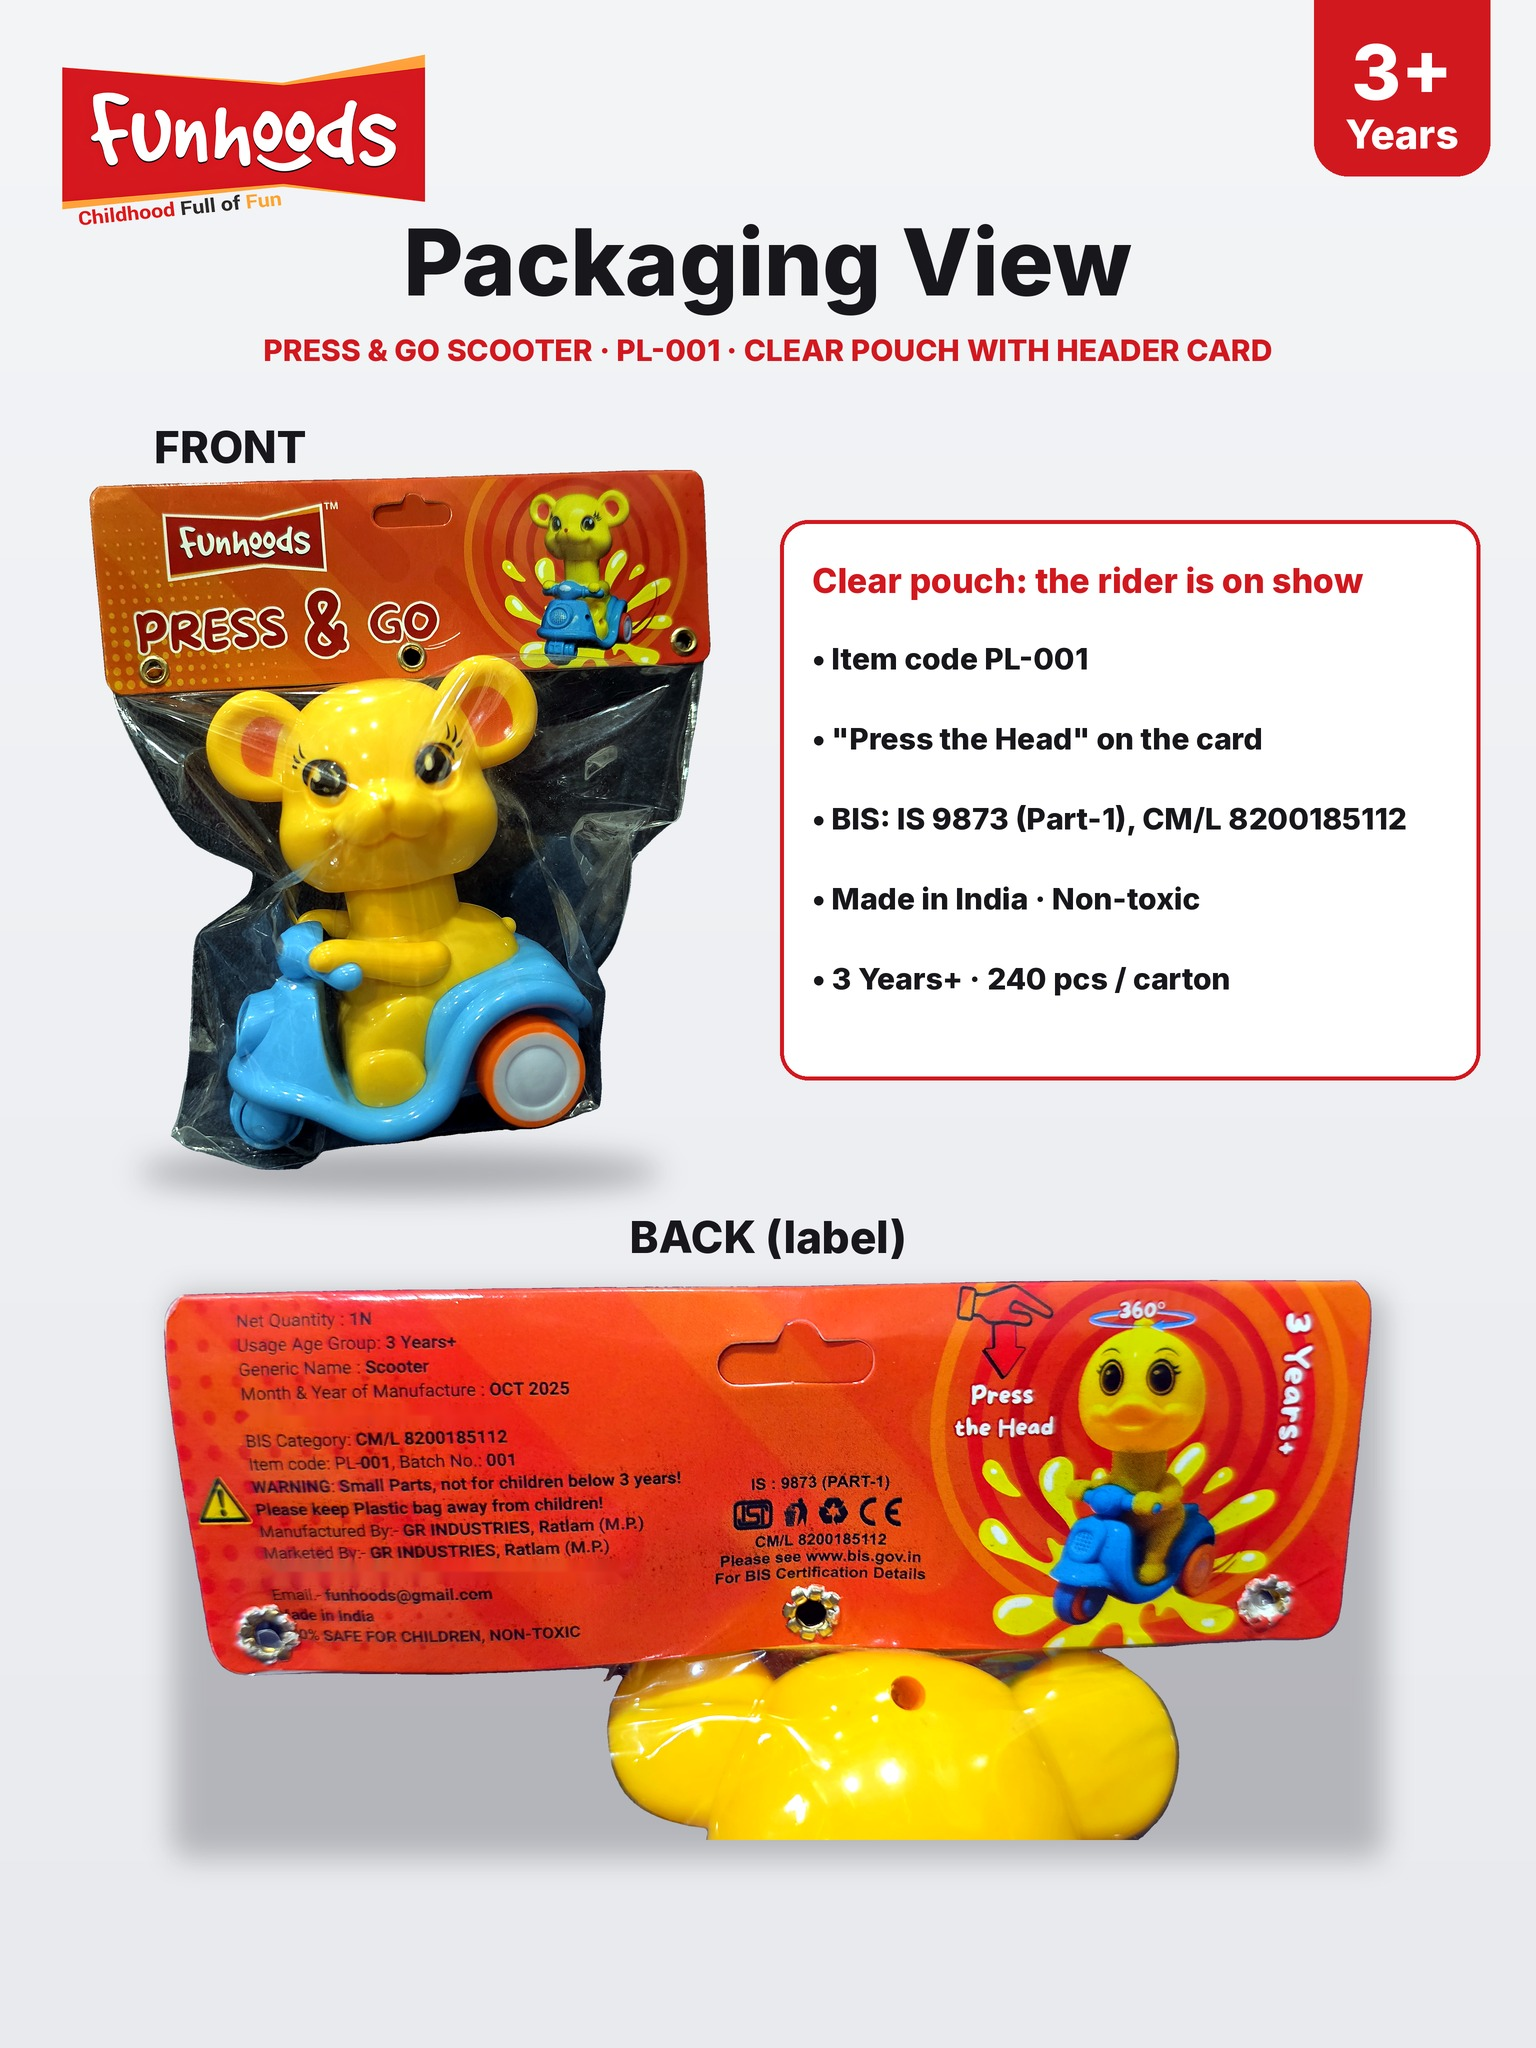
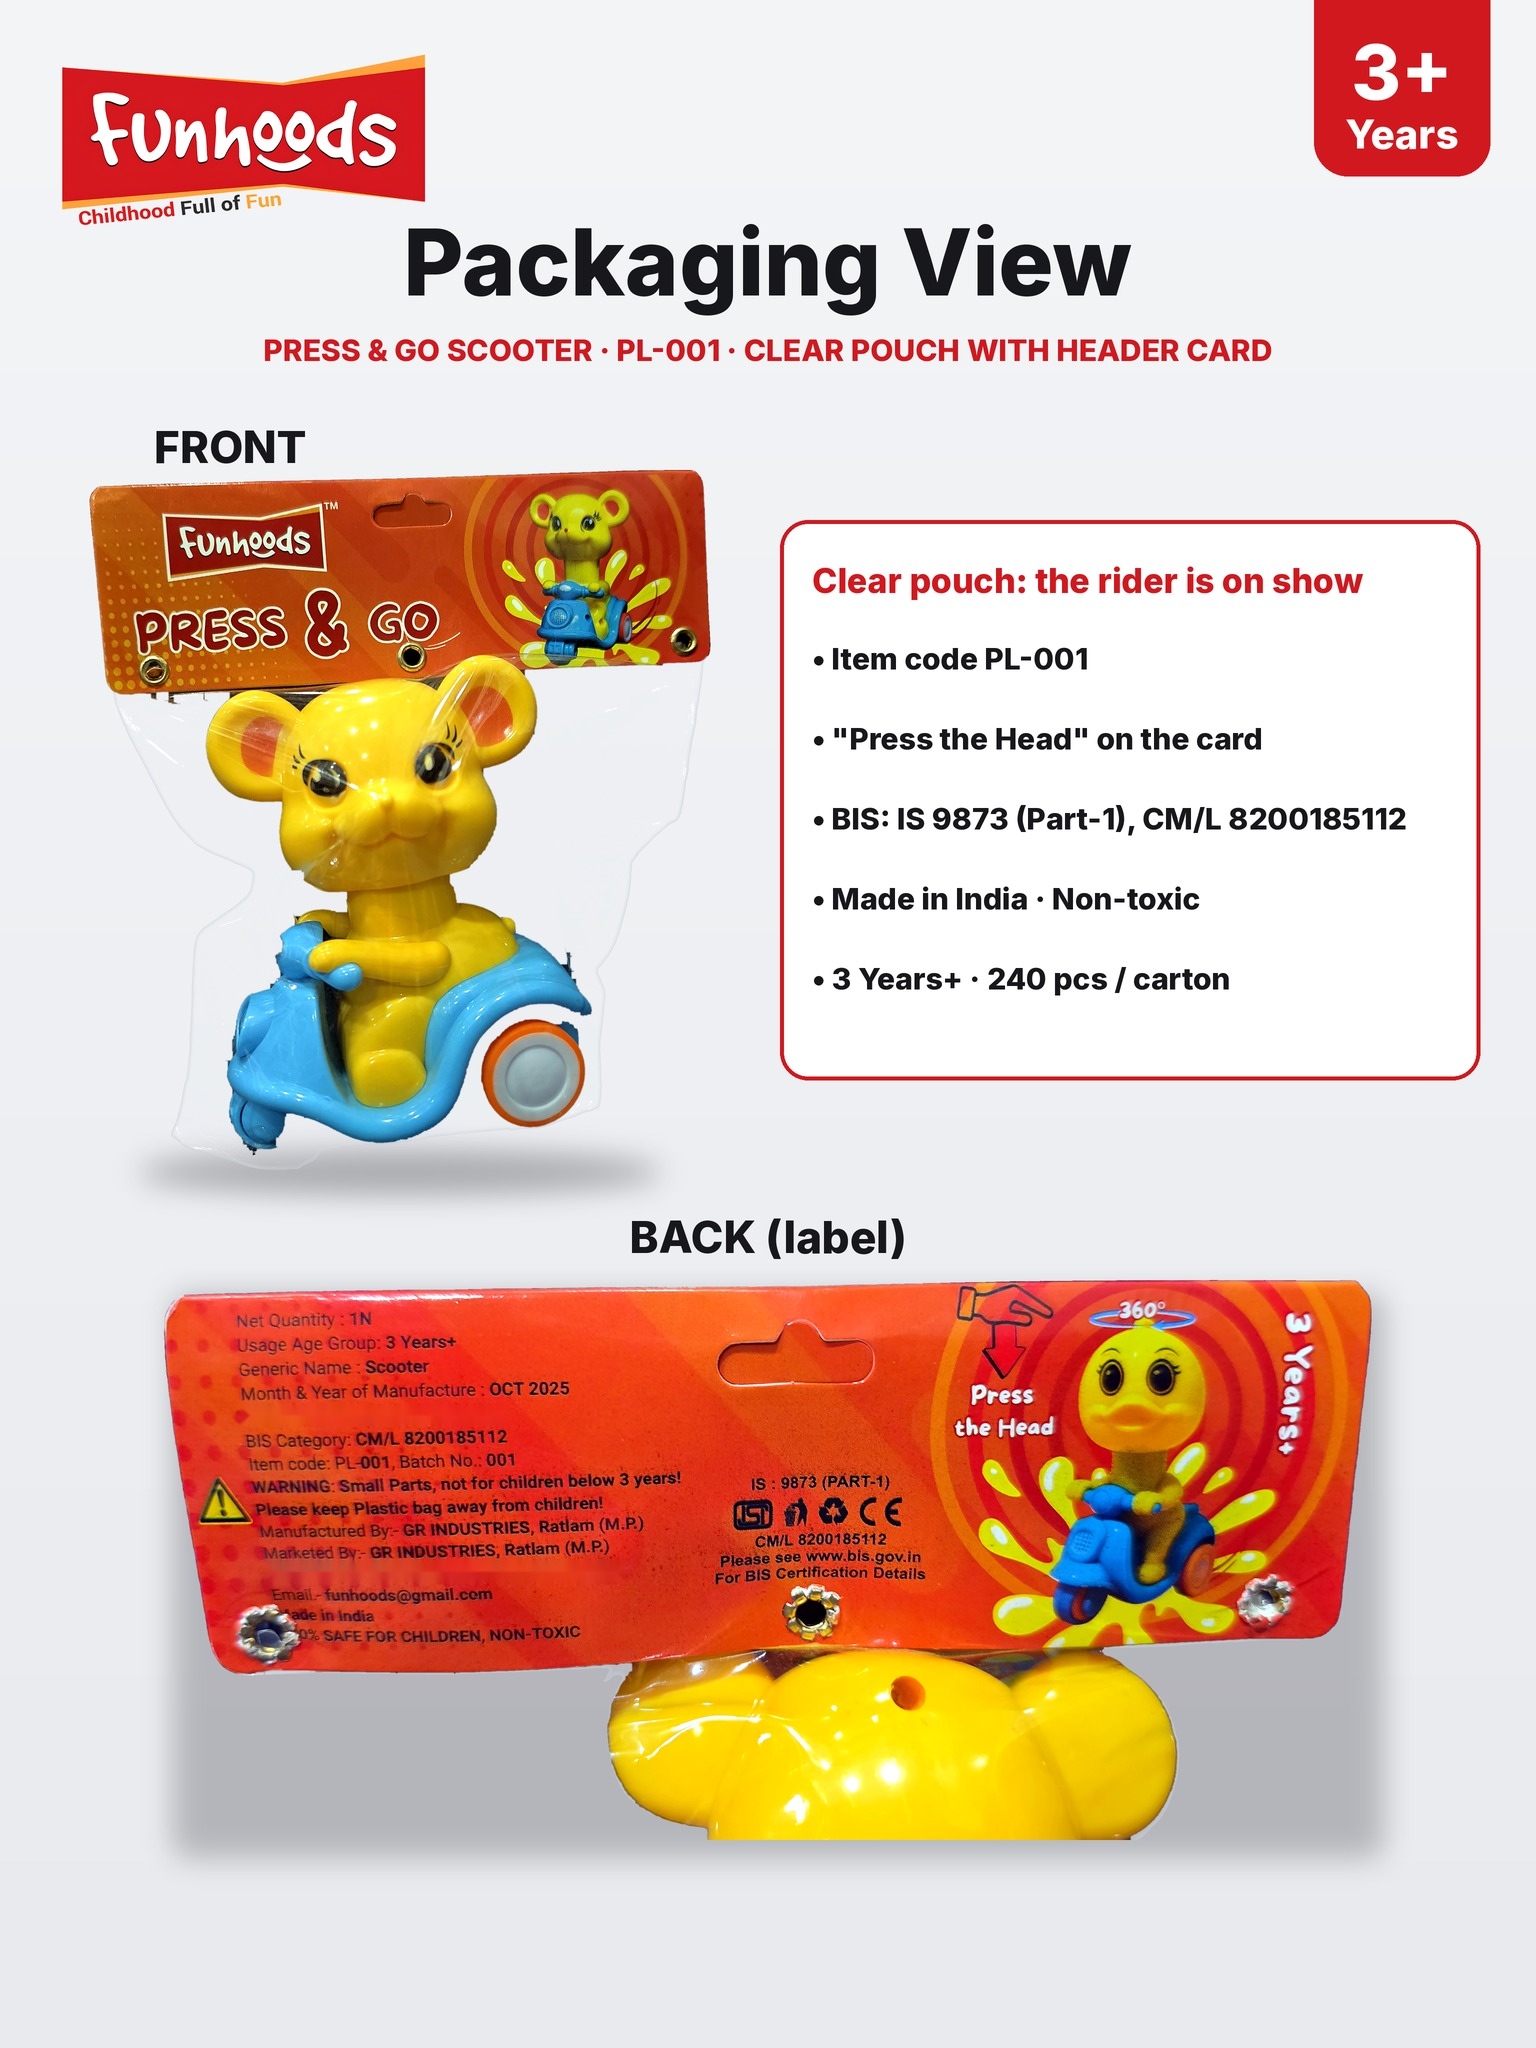
Scooter: show the pouch as the clear bag it is
The photos were shot on a dark surface, so the bag read as black. tools/clear_pouch.py
keeps the header card and toy solid and turns the bag into a clear film; packaging sheet redone.

Claude-Session: https://claude.ai/code/session_01TrzPFdJeCE1FnkyMfPomRM

Changed region(s): [[0.2812, 0.3125, 0.4688, 0.5625], [0.0625, 0.3125, 0.25, 0.5938], [0.375, 0.8125, 0.4062, 0.8438]]

diff --git a/funhoods-press-go-scooter/tools/clear_pouch.py b/funhoods-press-go-scooter/tools/clear_pouch.py
@@ -1,0 +1,44 @@
+# The pouch is clear plastic. In the client's photos it was shot on a dark surface, so the cut-out showed that dark
+# background through the bag and the pouch read as black. Here the bag area is made see-through:
+# - kept opaque: the header card and the toy inside (saturated colours + the small enclosed parts like the eyes and hub)
+# - the rest of the bag becomes a clear film: the dark background is removed, the plastic's own glare is kept as soft white
+#   highlights, plus a faint film tint and a thin edge so the bag's shape still reads.
+# In place on assets/pack_front.png, pack_front2.png, pack_back.png (run after tools/prep_assets.py).
+import os
+import numpy as np, cv2
+from PIL import Image
+from scipy import ndimage as ndi
+ROOT = os.path.join(os.path.dirname(os.path.abspath(__file__)), '..')
+A = lambda *p: os.path.join(ROOT, 'assets', *p)
+
+def clear(name):
+    im = Image.open(A(name)).convert('RGBA'); v = np.asarray(im).astype(np.float32)
+    a = v[..., 3] / 255; rgb = v[..., :3]
+    hsv = cv2.cvtColor(rgb.astype(np.uint8), cv2.COLOR_RGB2HSV).astype(np.float32)
+    S, V = hsv[..., 1], hsv[..., 2]
+    H = hsv[..., 0]; blue = (H > 85) & (H < 135)
+    blue_ok = ((S > 130) & (V > 95)) | ((S > 55) & (V > 150))                # light-blue scooter, also in shade / under glare;
+    solid = np.where(blue, blue_ok, (S > 95) & (V > 115)) & (a > 0.5)        # the navy backdrop is S < 110, V < 120
+    solid = cv2.morphologyEx(solid.astype(np.uint8), cv2.MORPH_CLOSE, np.ones((21, 21), np.uint8)) > 0   # bridge glare streaks
+    holes = ndi.binary_fill_holes(solid) & ~solid                           # eyes, wheel hub, lashes ...
+    lab, n = ndi.label(holes); sizes = ndi.sum(holes, lab, range(1, n + 1))
+    small = np.isin(lab, 1 + np.where(sizes < 0.015 * solid.size)[0])
+    solid = (solid | small)
+    lab, n = ndi.label(solid); sizes = ndi.sum(solid, lab, range(1, n + 1))  # drop specks
+    solid = np.isin(lab, 1 + np.where(sizes > 0.002 * solid.size)[0])
+    soft = cv2.GaussianBlur(solid.astype(np.float32), (0, 0), 1.5)
+    # clear film: brightness above the dark backdrop = plastic glare -> white highlight with that much opacity
+    bgv = np.percentile(V[(a > 0.5) & ~solid], 25) if ((a > 0.5) & ~solid).any() else 40
+    glare = np.clip((V - bgv - 12) / (235 - bgv), 0, 1) ** 1.3 * np.clip(1 - S / 140, 0, 1)
+    inside = (a > 0.5).astype(np.uint8)
+    edge = np.clip(1 - cv2.distanceTransform(inside, cv2.DIST_L2, 5) / 14, 0, 1) * (a > 0.05)
+    film_a = np.clip(0.10 + 0.80 * glare + 0.45 * edge, 0, 1)
+    film_rgb = np.ones_like(rgb) * np.array([226, 232, 240], np.float32)
+    film_rgb = film_rgb * (1 - glare[..., None]) + 255 * glare[..., None]
+    film_rgb = film_rgb * (1 - 0.35 * edge[..., None]) + np.array([150, 160, 172], np.float32) * 0.35 * edge[..., None]
+    out_rgb = rgb * soft[..., None] + film_rgb * (1 - soft[..., None])
+    out_a = a * (soft + (1 - soft) * film_a)
+    out = np.concatenate([np.clip(out_rgb, 0, 255), np.clip(out_a * 255, 0, 255)[..., None]], -1).astype(np.uint8)
+    Image.fromarray(out, 'RGBA').save(A(name)); print(name, 'clear film', round(float((~solid & (a > 0.5)).mean()), 3))
+
+for n in ('pack_front.png', 'pack_front2.png', 'pack_back.png'): clear(n)

diff --git a/funhoods-press-go-scooter/README.md b/funhoods-press-go-scooter/README.md
@@ -35,7 +35,7 @@ The client's photos have no view of the back of the head. That pose is made from
 | 7.3–11.0 | Two cute riders, a little mouse and a happy duck! | Mouse (blue) and duck (blue) slide in, each hops on its word · 2 CUTE RIDERS · MOUSE · DUCK |
 | 11.0–13.8 | Bright blue, red and orange scooters. | Blue duck, red mouse and orange duck pop in on the colour words · BRIGHT COLOURS |
 | 13.8–17.3 | BIS certified, Made in India and non-toxic. | Red mouse + orange duck, badge rows: BIS CERTIFIED (IS 9873 Part-1), MADE IN INDIA, NON-TOXIC, 3+ YEARS |
-| 17.3–20.4 | In a see-through pouch that shows off every rider. | The real pouch drops onto a peg and swings, a ring shows the rider through the window · SEE-THROUGH POUCH · SHOWS EVERY RIDER! |
+| 17.3–20.4 | In a see-through pouch that shows off every rider. | The real pouch (made see-through, as it is in reality) drops onto a peg and swings; a ring shows the rider through the clear bag · SEE-THROUGH POUCH · SHOWS EVERY RIDER! |
 | 20.4–23.6 | Two hundred forty pieces per carton, pan India delivery. | 240 PCS PER CARTON (cartons stack) · Funhoods truck · PAN INDIA DELIVERY |
 | 23.6–27.2 | Distributors and wholesalers, fill your shelves with Press and Go! | A peg board slides up and fills with 6 pouches · BULK ORDERS ONLY · FILL YOUR SHELVES! |
 | 27.2–31 | Funhoods, Childhood Full of Fun! | End card: logo, 3 scooters, PRESS & GO SCOOTER • PL-001 • 3+ YEARS, 240 PCS / CARTON, PAN INDIA DELIVERY |
@@ -43,6 +43,8 @@ The client's photos have no view of the back of the head. That pose is made from
 ## Sources
 - **Product:** BiRefNet cut-outs of the client's phone photos (Drive, 5 Nov), colour graded by `tools/prep_assets.py`
   (levels, +6 % contrast, +12 % saturation, clarity). The MRP and the phone number on the pack label are painted out.
+- **Pouch:** the pack is a transparent pouch. It was photographed on a dark surface, so `tools/clear_pouch.py` removes that dark
+  backdrop from the bag area. The header card and the toy stay solid, and the bag becomes a clear film with its own glare and a thin edge.
 - **VO:** Magnific (ElevenLabs v4), voice "Gavin" (client pick, sample 1), re-timed by `tools/vo_retime.py` (+8 % tempo, pitch kept).
   It never speaks a sound effect.
 - **Toy sounds:** the scooter's REAL sounds, cut from the client's raw clip and denoised by `tools/og_sound.py`:
@@ -55,7 +57,7 @@ The client's photos have no view of the back of the head. That pose is made from
 
 ## Render
 ```sh
-python3 tools/prep_assets.py && python3 tools/rig_back.py && python3 tools/sheets.py
+python3 tools/prep_assets.py && python3 tools/clear_pouch.py && python3 tools/rig_back.py && python3 tools/sheets.py
 python3 tools/og_sound.py <dir with 130920.mp4>              # audio/og_*.wav (real toy sounds)
 python3 tools/vo_retime.py                                    # audio/vo_timed.wav + vo_timing.json
 sh music/get_music.sh && python3 audio.py                     # mix.wav (-14 LUFS)
